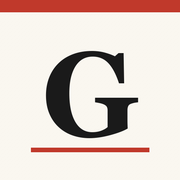
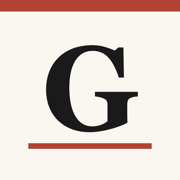
feat: rebrand a El Guayasense (elguayasense.com)
El dominio final es elguayasense.com. Se ajusta la marca en toda la web:
títulos, meta OG/Twitter, canonical, robots, sitemap y correos.

- Logos SVG con el nuevo wordmark; el cuerpo baja de 46 a 36px porque
  «El Guayasense» no cabía en el viewBox de 300.
- Masthead del Navbar a text-[2rem] sm:2.75rem md:5xl lg:6xl: a 7xl
  el nombre desbordaba en móvil.
- icon.png, apple-touch-icon.png y og.png regenerados.
- Clave de tema: guayaco-theme -> elguayasense-theme.
- API_URL de producción documentada: https://api.guayashoy.com, la misma
  para las dos webs.

SITE_SLUG sigue siendo guayaco: es la clave con la que el backend reparte
las notas entre sitios (Site.slug en BD, get_or_create por slug), no un
dominio. Cambiarlo crearía un sitio nuevo y vacío.

Se comentan, sin borrar, los bloques de contacto: el CTA «¿Eres de un
medio?» en Medios, el correo de retiro de contenido en Términos §4 y el
de derechos LOPDP en Privacidad §6. No habrá canal público por ahora.

Changed region(s): [[0.1389, 0.25, 0.8611, 0.8611], [0.0, 0.0556, 1.0, 0.0833]]

diff --git a/src/pages/PrivacyPage.tsx b/src/pages/PrivacyPage.tsx
@@ -10,15 +10,15 @@ export function PrivacyPage() {
       title="Política de privacidad"
       updated={UPDATED}
       path="/privacidad"
-      seoTitle="Política de privacidad — Guayaco"
-      seoDescription="Qué datos recoge Guayaco y cómo los trata, conforme a la Ley Orgánica de Protección de Datos Personales del Ecuador."
-      intro="Guayaco no pide registro ni recoge datos personales para funcionar. Esta página explica lo poco que sí se guarda y por qué."
+      seoTitle="Política de privacidad — El Guayasense"
+      seoDescription="Qué datos recoge El Guayasense y cómo los trata, conforme a la Ley Orgánica de Protección de Datos Personales del Ecuador."
+      intro="El Guayasense no pide registro ni recoge datos personales para funcionar. Esta página explica lo poco que sí se guarda y por qué."
       sections={[
         {
           title: '1. Quiénes somos',
           body: (
             <p className="m-0">
-              Guayaco es un agregador de noticias de la ciudad. Reunimos titulares
+              El Guayasense es un agregador de noticias de la ciudad. Reunimos titulares
               y extractos publicados por medios de comunicación y enlazamos a sus artículos
               originales. No producimos contenido periodístico propio.
             </p>
@@ -46,7 +46,7 @@ export function PrivacyPage() {
             <>
               <p className="m-0">
                 Usamos <code>localStorage</code>, no cookies de seguimiento. Se guardan dos
-                valores: <code>guayaco-theme</code> (claro u oscuro) y <code>cookie_consent</code>{' '}
+                valores: <code>elguayasense-theme</code> (claro u oscuro) y <code>cookie_consent</code>{' '}
                 (si ya viste el aviso).
               </p>
               <p className="m-0">
@@ -90,11 +90,14 @@ export function PrivacyPage() {
               La Ley Orgánica de Protección de Datos Personales del Ecuador te da derecho de
               acceso, rectificación, eliminación y oposición sobre tus datos personales. Como
               no tratamos datos que te identifiquen, en la práctica no hay nada que rectificar
-              ni eliminar; aun así, si tienes una consulta escríbenos a{' '}
-              <a href="mailto:hola@guayaco.ec" className="text-accent no-underline hover:underline">
-                hola@guayaco.ec
+              ni eliminar.
+              {/* Sin canal de contacto público: no hay formulario ni correo de contacto.
+              , aun así, si tienes una consulta escríbenos a{' '}
+              <a href="mailto:hola@elguayasense.com" className="text-accent no-underline hover:underline">
+                hola@elguayasense.com
               </a>
               .
+              */}
             </p>
           ),
         },

diff --git a/index.html b/index.html
@@ -6,36 +6,36 @@
 
     <link rel="icon" type="image/png" href="/img/icon.png" />
     <link rel="apple-touch-icon" href="/img/apple-touch-icon.png" />
-    <link rel="canonical" href="https://guayaco.ec/" />
+    <link rel="canonical" href="https://elguayasense.com/" />
 
     <!-- Estos meta existen como plantilla: `scripts/ssg-meta.mjs` los reescribe
          por página en el build, las Pages Functions los reescriben por nota, y
          `usePageSeo` los actualiza al navegar dentro de la SPA. -->
-    <title>Guayaco | El diario de Guayaquil</title>
+    <title>El Guayasense | El diario de Guayaquil</title>
     <meta name="description" content="Las noticias de Guayaquil de los principales medios de la ciudad, reunidas en una sola edición. Titulares, extracto y enlace directo al medio que las publicó." />
     <meta name="robots" content="index, follow" />
     <meta name="theme-color" content="#faf7f0" />
 
     <meta property="og:type" content="website" />
-    <meta property="og:site_name" content="Guayaco" />
+    <meta property="og:site_name" content="El Guayasense" />
     <meta property="og:locale" content="es_EC" />
-    <meta property="og:url" content="https://guayaco.ec/" />
-    <meta property="og:title" content="Guayaco | El diario de Guayaquil" />
+    <meta property="og:url" content="https://elguayasense.com/" />
+    <meta property="og:title" content="El Guayasense | El diario de Guayaquil" />
     <meta property="og:description" content="Las noticias de Guayaquil de los principales medios de la ciudad, en una sola edición." />
-    <meta property="og:image" content="https://guayaco.ec/img/og.png" />
+    <meta property="og:image" content="https://elguayasense.com/img/og.png" />
     <meta property="og:image:width" content="1200" />
     <meta property="og:image:height" content="630" />
 
     <meta name="twitter:card" content="summary_large_image" />
-    <meta name="twitter:title" content="Guayaco | El diario de Guayaquil" />
+    <meta name="twitter:title" content="El Guayasense | El diario de Guayaquil" />
     <meta name="twitter:description" content="Las noticias de Guayaquil de los principales medios de la ciudad, en una sola edición." />
-    <meta name="twitter:image" content="https://guayaco.ec/img/og.png" />
+    <meta name="twitter:image" content="https://elguayasense.com/img/og.png" />
 
     <!-- Edición nocturna: se aplica antes del primer paint para evitar el flash -->
     <script>
       (function () {
         try {
-          if (localStorage.getItem('guayaco-theme') === 'dark') {
+          if (localStorage.getItem('elguayasense-theme') === 'dark') {
             document.documentElement.classList.add('dark');
           }
         } catch (e) {}

diff --git a/src/pages/TermsPage.tsx b/src/pages/TermsPage.tsx
@@ -10,15 +10,15 @@ export function TermsPage() {
       title="Términos y condiciones"
       updated={UPDATED}
       path="/terminos"
-      seoTitle="Términos y condiciones — Guayaco"
-      seoDescription="Condiciones de uso de Guayaco, agregador de noticias de la ciudad, y cómo se trata el contenido de los medios."
-      intro="Al usar Guayaco aceptas estas condiciones. La más importante cabe en una línea: el contenido no es nuestro, y por eso siempre te llevamos a quien lo escribió."
+      seoTitle="Términos y condiciones — El Guayasense"
+      seoDescription="Condiciones de uso de El Guayasense, agregador de noticias de la ciudad, y cómo se trata el contenido de los medios."
+      intro="Al usar El Guayasense aceptas estas condiciones. La más importante cabe en una línea: el contenido no es nuestro, y por eso siempre te llevamos a quien lo escribió."
       sections={[
         {
           title: '1. Qué es este sitio',
           body: (
             <p className="m-0">
-              Guayaco es un agregador. Reunimos titulares y extractos breves
+              El Guayasense es un agregador. Reunimos titulares y extractos breves
               publicados por medios de comunicación, indicamos siempre el medio de origen y
               enlazamos a su artículo completo. No somos un medio de comunicación ni
               elaboramos contenido periodístico.
@@ -62,11 +62,14 @@ export function TermsPage() {
           body: (
             <p className="m-0">
               Cualquier medio puede pedir que dejemos de mostrar su contenido y lo retiramos
-              el mismo día, sin condiciones ni contrapartidas. Basta con escribir a{' '}
-              <a href="mailto:hola@guayaco.ec" className="text-accent no-underline hover:underline">
-                hola@guayaco.ec
+              el mismo día, sin condiciones ni contrapartidas.
+              {/* Sin canal de contacto público: no hay formulario ni correo de contacto.
+              Basta con escribir a{' '}
+              <a href="mailto:hola@elguayasense.com" className="text-accent no-underline hover:underline">
+                hola@elguayasense.com
               </a>{' '}
               desde un correo del medio.
+              */}
             </p>
           ),
         },

diff --git a/src/pages/SourcesPage.tsx b/src/pages/SourcesPage.tsx
@@ -37,9 +37,9 @@ export function SourcesPage() {
   const { data: sources } = useSources();
 
   usePageSeo({
-    title: 'Medios y cómo trabajamos — Guayaco',
+    title: 'Medios y cómo trabajamos — El Guayasense',
     description:
-      'De qué medios sale el contenido de Guayaco y con qué reglas se agrega: solo titular y extracto, enlace al original y salida inmediata a petición.',
+      'De qué medios sale el contenido de El Guayasense y con qué reglas se agrega: solo titular y extracto, enlace al original y salida inmediata a petición.',
     path: '/medios',
   });
 
@@ -55,7 +55,7 @@ export function SourcesPage() {
               De dónde sale todo esto.
             </h1>
             <p className="text-muted-foreground text-lg leading-relaxed m-0">
-              Guayaco no produce noticias. Reúne lo que publican los medios de
+              El Guayasense no produce noticias. Reúne lo que publican los medios de
               la ciudad y del país, y manda al lector de vuelta a ellos.
             </p>
           </header>
@@ -104,6 +104,7 @@ export function SourcesPage() {
             </div>
           </section>
 
+          {/* Sin canal de contacto público: no hay formulario ni correo de contacto.
           <section className="rounded-none border border-border bg-surface p-8 md:p-10 mb-8 text-center">
             <h2 className="font-display font-bold text-2xl text-foreground tracking-tight m-0 mb-3">
               ¿Eres de un medio?
@@ -113,12 +114,13 @@ export function SourcesPage() {
               frecuencia, o si quieres que tu medio aparezca aquí.
             </p>
             <a
-              href="mailto:hola@guayaco.ec"
+              href="mailto:hola@elguayasense.com"
               className="inline-block rounded-none px-8 py-2.5 text-[13px] uppercase tracking-[0.14em] bg-accent text-white no-underline hover:opacity-90 transition-opacity"
             >
-              hola@guayaco.ec
+              hola@elguayasense.com
             </a>
           </section>
+          */}
         </div>
       </main>
 

diff --git a/src/components/Navbar.tsx b/src/components/Navbar.tsx
@@ -57,10 +57,10 @@ export function Navbar() {
             <Link
               to="/"
               className="no-underline text-center shrink-0"
-              aria-label="Guayaco — portada"
+              aria-label="El Guayasense — portada"
             >
-              <span className="block font-display font-bold text-foreground leading-[0.85] tracking-tight text-[2.75rem] md:text-6xl lg:text-7xl">
-                Guayaco
+              <span className="block font-display font-bold text-foreground leading-[0.85] tracking-tight text-[2rem] sm:text-[2.75rem] md:text-5xl lg:text-6xl">
+                El Guayasense
               </span>
               <span className="block text-[10px] md:text-[11px] uppercase tracking-[0.34em] text-accent mt-2">
                 El diario de Guayaquil
@@ -124,7 +124,7 @@ export function Navbar() {
               to="/"
               className="hidden md:block shrink-0 font-display font-bold text-base text-foreground no-underline hover:text-accent transition-colors"
             >
-              Guayaco
+              El Guayasense
             </Link>
             <span className="hidden md:block h-4 w-px bg-border shrink-0" aria-hidden="true" />
 

diff --git a/src/pages/ArticlePage.tsx b/src/pages/ArticlePage.tsx
@@ -65,7 +65,7 @@ export function ArticlePage() {
   usePageSeo(
     article
       ? {
-          title: `${article.title} — Guayaco`,
+          title: `${article.title} — El Guayasense`,
           description: article.excerpt,
           path: `/noticia/${article.slug}`,
           image: article.image_url || undefined,
@@ -200,7 +200,7 @@ export function ArticlePage() {
             <SourceCredit article={article} variant="block" className="mb-6" />
 
             <p className="text-xs text-muted-foreground leading-relaxed m-0">
-              Guayaco es un agregador: reproduce el titular y un extracto breve
+              El Guayasense es un agregador: reproduce el titular y un extracto breve
               con fines informativos y enlaza al artículo completo. Los derechos sobre el
               texto y las imágenes pertenecen a {article.source.name}.
             </p>

diff --git a/src/components/Footer.tsx b/src/components/Footer.tsx
@@ -32,7 +32,7 @@ export function Footer() {
         <div className="grid grid-cols-2 md:grid-cols-3 gap-8 md:gap-10">
           <div className="col-span-2 md:col-span-1">
             <p className="font-display font-bold text-4xl text-foreground leading-none m-0">
-              Guayaco
+              El Guayasense
             </p>
             <p className="text-[10px] uppercase tracking-[0.3em] text-accent mt-2 m-0">
               El diario de Guayaquil
@@ -69,7 +69,7 @@ export function Footer() {
         <div className="rule-double my-8" aria-hidden="true" />
 
         <p className="text-[11px] uppercase tracking-[0.14em] text-muted-foreground m-0">
-          © {YEAR} Guayaco
+          © {YEAR} El Guayasense
         </p>
       </div>
     </footer>

diff --git a/src/pages/HomePage.tsx b/src/pages/HomePage.tsx
@@ -7,7 +7,7 @@ import { NewsFeedSection } from '../components/sections/NewsFeedSection';
 import { usePageSeo } from '../hooks/usePageSeo';
 import { SITE_URL } from '../lib/api';
 
-const TITLE = 'Guayaco | El diario de Guayaquil';
+const TITLE = 'El Guayasense | El diario de Guayaquil';
 const DESCRIPTION =
   'Las noticias de Guayaquil de los principales medios de la ciudad, reunidas en una sola edición. Titulares, extracto y enlace directo al medio que las publicó.';
 
@@ -25,7 +25,7 @@ export function HomePage() {
       '@context': 'https://schema.org',
       '@type': 'WebSite',
       '@id': `${SITE_URL}/#website`,
-      name: 'Guayaco',
+      name: 'El Guayasense',
       url: SITE_URL,
       description: DESCRIPTION,
       inLanguage: 'es-EC',

diff --git a/src/pages/SectionPage.tsx b/src/pages/SectionPage.tsx
@@ -34,7 +34,7 @@ export function SectionPage() {
   );
 
   usePageSeo({
-    title: `${name} — Guayaco`,
+    title: `${name} — El Guayasense`,
     description:
       category?.description ||
       `Noticias de ${name} publicadas por los medios de Guayaquil, con crédito y enlace al original.`,
@@ -43,7 +43,7 @@ export function SectionPage() {
       ? {
           '@context': 'https://schema.org',
           '@type': 'CollectionPage',
-          name: `${name} — Guayaco`,
+          name: `${name} — El Guayasense`,
           url: `${SITE_URL}/seccion/${slug}`,
           inLanguage: 'es-EC',
           mainEntity: {

diff --git a/src/index.css b/src/index.css
@@ -34,7 +34,7 @@
   font-display: swap;
 }
 
-/* ─── Guayaco — Design Tokens ─────────────────────────────
+/* ─── El Guayasense — Design Tokens ─────────────────────────────
    Mismo sistema y las mismas primitivas que la web hermana; cambia todo lo
    demás. Aquello es una web: papel blanco, celeste, aire y esquinas
    redondeadas. Esto es un periódico impreso: papel crema, tinta negra, rojo de

diff --git a/src/components/news/SourceCredit.tsx b/src/components/news/SourceCredit.tsx
@@ -47,7 +47,7 @@ export function SourceCredit({ article, variant = 'inline', className = '' }: Pr
       </p>
       <p className="font-display font-bold text-lg text-foreground m-0 mb-1">{source.name}</p>
       <p className="text-sm text-muted-foreground m-0 mb-4">
-        Guayaco resume y enlaza. El artículo completo, las fotos y los
+        El Guayasense resume y enlaza. El artículo completo, las fotos y los
         derechos son de {source.name}.
       </p>
       <div className="flex flex-wrap items-center gap-3">

diff --git a/scripts/set-env.js b/scripts/set-env.js
@@ -26,7 +26,7 @@ const env = process.env;
 
 // API_URL vacío = mismo origen. En desarrollo lo cubre el proxy de Vite.
 const apiUrl = (env.API_URL ?? '').replace(/\/$/, '');
-const siteUrl = (env.SITE_URL ?? 'https://guayaco.ec').replace(/\/$/, '');
+const siteUrl = (env.SITE_URL ?? 'https://elguayasense.com').replace(/\/$/, '');
 
 // Qué web es esta. El backend alimenta varias y reparte las notas entre ellas,
 // así que sin este slug la API devolvería también las de la otra.
